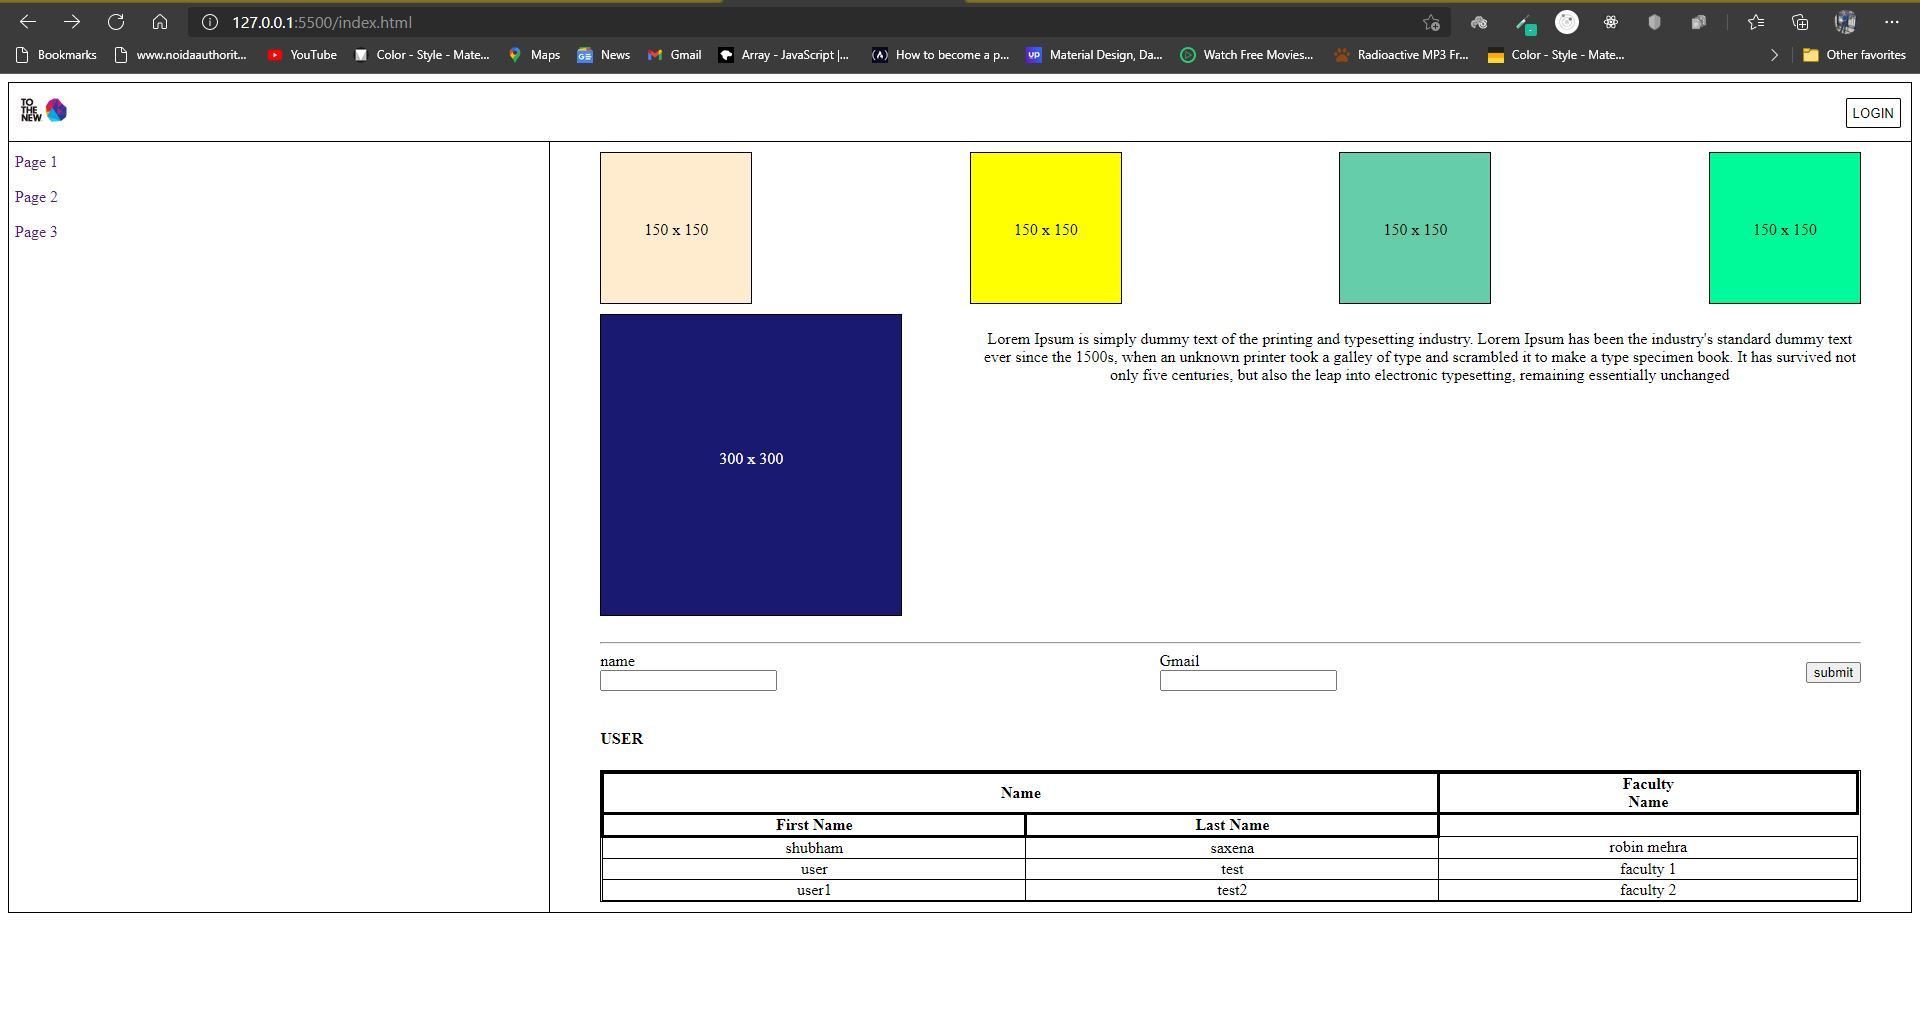
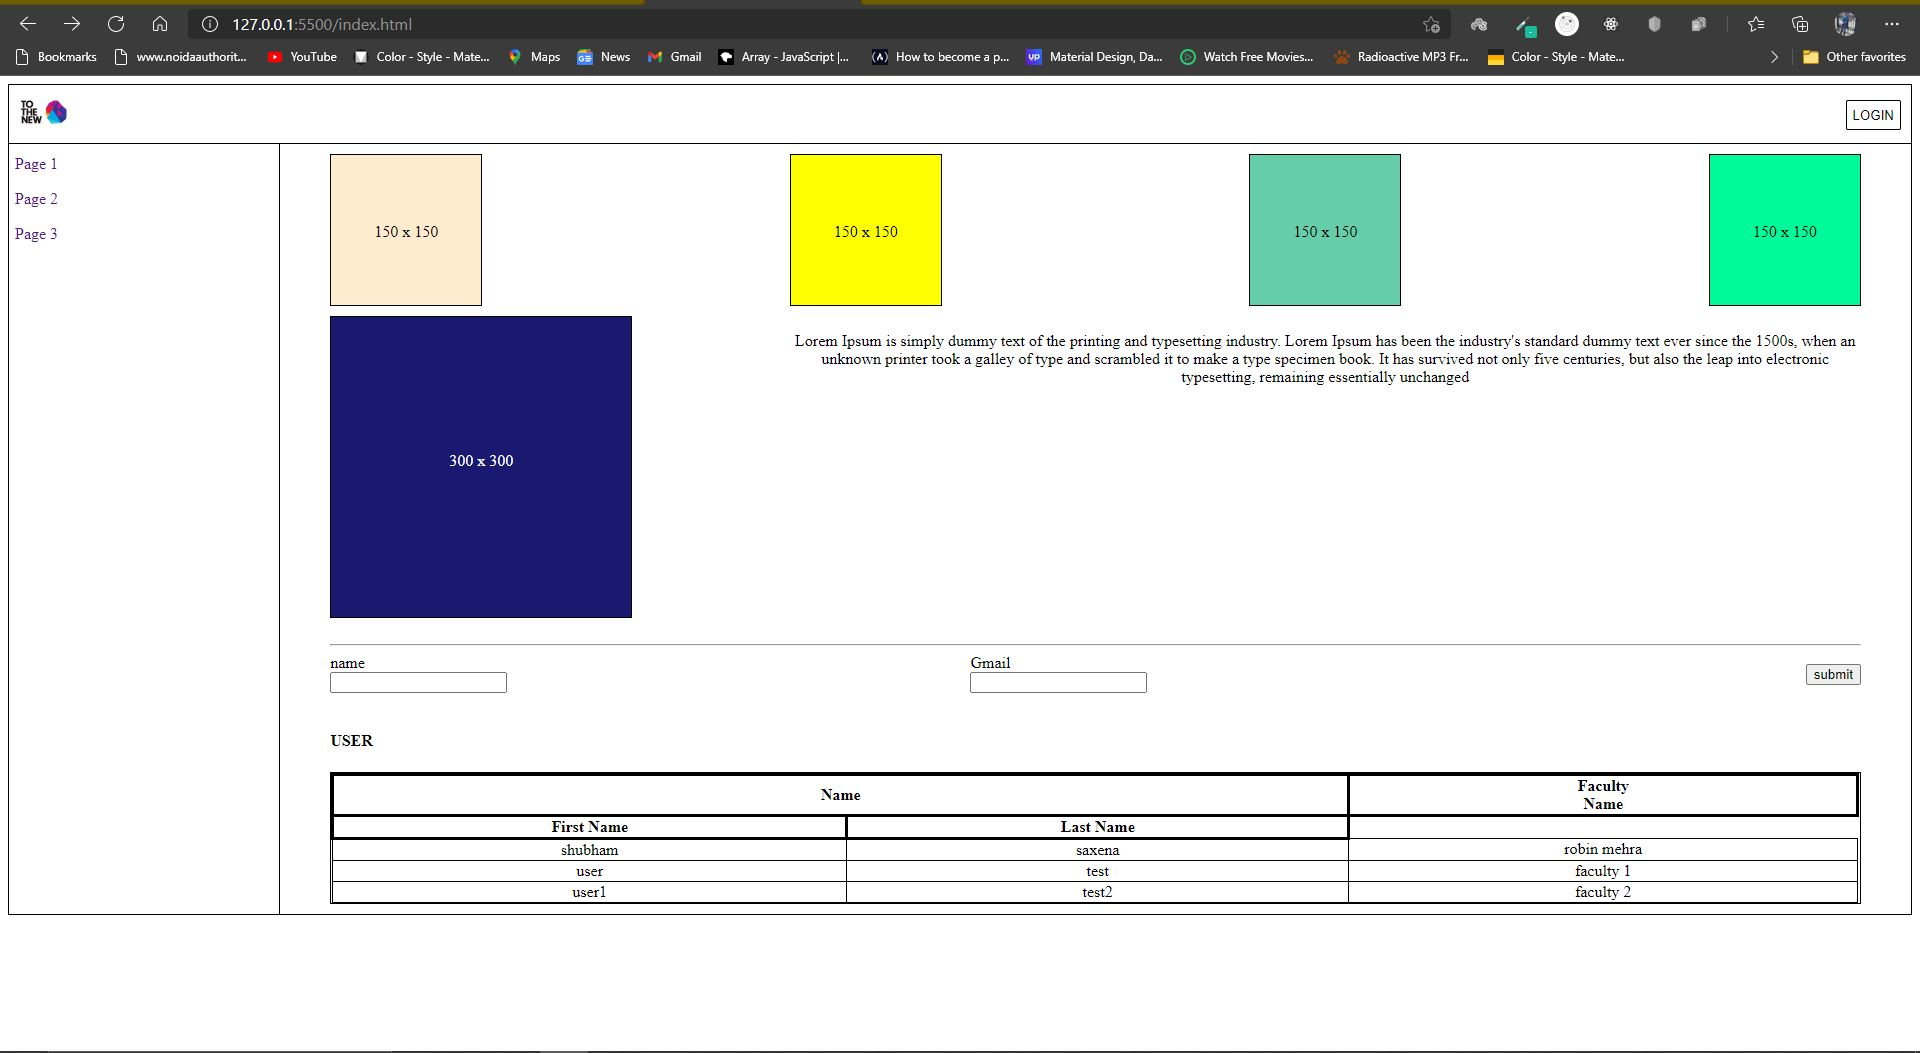
made some changes

diff --git a/html_style.css b/html_style.css
@@ -37,7 +37,7 @@
 }
 
 .side_nav  {
-    width: 30%;
+    width: 15%;
     border-top: 1px solid black;;
     border-right: 1px solid black;
     
@@ -53,7 +53,7 @@
 
 .main_content {
     
-    width: 70%;
+    width: 85%;
     border-top:  1px solid black;
     padding: 10px;
     padding-left: 50px;
